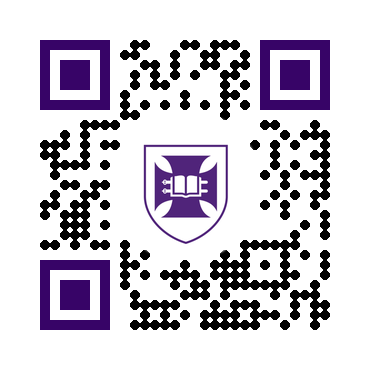
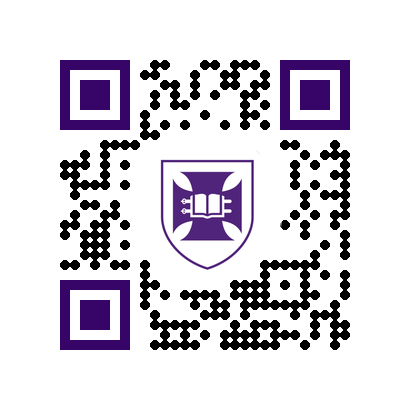
Improve scan reliability: reduce pad, increase quiet zone, auto-adjust mask to keep occlusion <22%; regenerate examples

diff --git a/src/branded_qr.py b/src/branded_qr.py
@@ -59,12 +59,12 @@ def make_branded_qr(
     logo_path: Optional[str] = None,
     *,
     target_frac: float = 0.234,
-    pad_frac: float = 0.28,
+    pad_frac: float = 0.22,
     smooth_sigma: float = 1.2,
     ring_thickness: int = 0,
     ring_color: Tuple[int, int, int, int] = (200, 200, 200, 255),
     qr_scale: int = 10,
-    border_modules: int = 4,
+    border_modules: int = 6,
     error: str = "h",
     data_dark: str = "black",
     finder_from_logo: bool = True,
@@ -73,6 +73,10 @@ def make_branded_qr(
     edge_clearance: float = 1.0,
     save_path: Optional[str] = None,
     university: Optional[str] = None,
+    auto_adjust_mask: bool = True,
+    max_occlusion: float = 0.22,
+    min_pad_frac: float = 0.16,
+    min_target_frac: float = 0.20,
 ) -> Image.Image:
     """Generate a branded QR code with a circular inset and logo.
 
@@ -138,6 +142,54 @@ def make_branded_qr(
     new_w = max(1, target_w)
     new_h = max(1, int(h * scale))
     new_logo = _resize_rgba_premultiplied(logo_rgba, (new_w, new_h), Image.LANCZOS)
+
+    # Optionally auto-adjust mask (pad/target) to keep occlusion under threshold
+    if auto_adjust_mask:
+        def estimate_occlusion_ratio(current_new_w: int, current_new_h: int, current_pad_frac: float) -> float:
+            pad_px = max(8, int(current_new_w * current_pad_frac))
+            diameter = max(current_new_w, current_new_h) + 2 * pad_px
+            circle_radius_local = diameter // 2
+            circle_cx_local, circle_cy_local = img_w // 2, img_w // 2
+            module_radius_local = qr_scale / 2.0
+            total_dark = 0
+            occluded = 0
+            for yy in range(n):
+                for xx in range(n):
+                    if mat[yy][xx]:
+                        total_dark += 1
+                        px = (xx + border_modules) * qr_scale
+                        py = (yy + border_modules) * qr_scale
+                        mx = px + module_radius_local
+                        my = py + module_radius_local
+                        d = ((mx - circle_cx_local) ** 2 + (my - circle_cy_local) ** 2) ** 0.5
+                        if d <= circle_radius_local - 0.5 * module_radius_local:
+                            occluded += 1
+            return (occluded / max(1, total_dark))
+
+        # First try reducing padding
+        current_pad = pad_frac
+        ratio = estimate_occlusion_ratio(new_w, new_h, current_pad)
+        attempts = 0
+        while ratio > max_occlusion and current_pad > min_pad_frac and attempts < 20:
+            current_pad = max(min_pad_frac, current_pad * 0.9)
+            ratio = estimate_occlusion_ratio(new_w, new_h, current_pad)
+            attempts += 1
+        pad_frac = current_pad
+
+        # If still too high, reduce target_frac moderately and recompute logo size
+        if ratio > max_occlusion and target_frac > min_target_frac:
+            attempts2 = 0
+            current_target = target_frac
+            while ratio > max_occlusion and current_target > min_target_frac and attempts2 < 20:
+                current_target = max(min_target_frac, current_target * 0.95)
+                target_w2 = int(img_w * current_target)
+                scale2 = target_w2 / max(1, w)
+                new_w = max(1, target_w2)
+                new_h = max(1, int(h * scale2))
+                new_logo = _resize_rgba_premultiplied(logo_rgba, (new_w, new_h), Image.LANCZOS)
+                ratio = estimate_occlusion_ratio(new_w, new_h, pad_frac)
+                attempts2 += 1
+            target_frac = current_target
 
     # Determine finder dark color
     if finder_dark_color is not None:
@@ -244,19 +296,23 @@ def main() -> None:
     parser.add_argument("logo_path", nargs="?", default=None, help="Path to logo image (optional if --university is supplied)")
     parser.add_argument("--university", type=str, choices=["mq", "unisq", "sydney", "uq"], help="Preset branding: mq | unisq | sydney | uq")
     parser.add_argument("-o", "--output", dest="save_path", default="branded_qr.png", help="Output image path")
-    parser.add_argument("--target-frac", type=float, default=0.18)
-    parser.add_argument("--pad-frac", type=float, default=0.28)
+    parser.add_argument("--target-frac", type=float, default=0.234)
+    parser.add_argument("--pad-frac", type=float, default=0.22)
     parser.add_argument("--smooth-sigma", type=float, default=1.2)
     parser.add_argument("--ring-thickness", type=int, default=0)
     parser.add_argument("--ring-color", type=str, default="#c8c8c8")
     parser.add_argument("--qr-scale", type=int, default=10)
-    parser.add_argument("--border-modules", type=int, default=4)
+    parser.add_argument("--border-modules", type=int, default=6)
     parser.add_argument("--error", type=str, default="h", choices=["l", "m", "q", "h"]) 
     parser.add_argument("--data-dark", type=str, default="black")
     parser.add_argument("--finder-from-logo", action="store_true", default=True)
     parser.add_argument("--finder-dark-color", type=str, default=None)
     parser.add_argument("--module-shape", type=str, default="circle", choices=["circle", "square"]) 
     parser.add_argument("--edge-clearance", type=float, default=1.0)
+    parser.add_argument("--auto-adjust-mask", action="store_true", default=True)
+    parser.add_argument("--max-occlusion", type=float, default=0.22)
+    parser.add_argument("--min-pad-frac", type=float, default=0.16)
+    parser.add_argument("--min-target-frac", type=float, default=0.20)
 
     args = parser.parse_args()
 
@@ -289,6 +345,10 @@ def main() -> None:
         finder_dark_color=args.finder_dark_color,
         module_shape=args.module_shape,
         edge_clearance=args.edge_clearance,
+        auto_adjust_mask=args.auto_adjust_mask,
+        max_occlusion=args.max_occlusion,
+        min_pad_frac=args.min_pad_frac,
+        min_target_frac=args.min_target_frac,
         save_path=args.save_path,
         university=args.university,
     )
